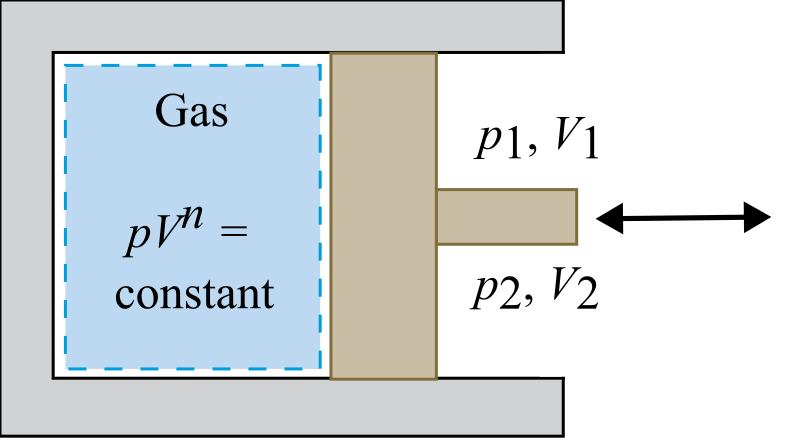
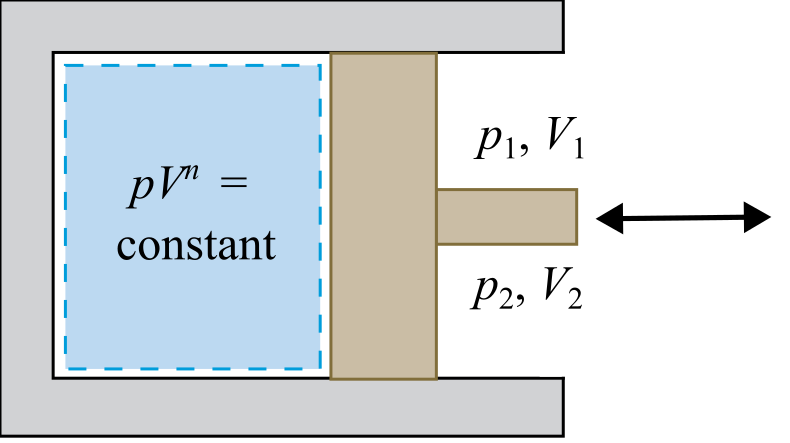
fixes to 2.17-eq

diff --git a/me200/2.17-eq.html b/me200/2.17-eq.html
@@ -39,12 +39,18 @@
     .rowflex{display:flex;align-items:center;gap:10px;flex-wrap:wrap}
     .inline{display:flex;align-items:center;gap:8px}
     .num-sm{width:170px}
-    .controls input.num-sm[type="number"]{width:170px !important}
+    .controls input.num-sm[type="number"]{width:70px }
     .hint{font-size:12px;color:#6b7280;margin-top:4px}
 
     input:disabled{background:#f3f4f6!important;color:#6b7280!important;cursor:not-allowed;opacity:1}
 
-    .kpi{display:grid;gap:10px;margin-top:10px;grid-template-columns:repeat(2,minmax(120px,1fr))}
+    .kpi{
+      display:grid;gap:10px;margin-top:10px;grid-template-columns:repeat(2,minmax(120px,1fr));
+      background:#fcfcff;
+      border:1px solid var(--line);
+      border-radius:12px;
+      padding:10px 12px;
+    }
     .kpi .lab{font-size:12px;color:#6b7280}
     .kpi .val{font-size:16px;font-weight:600;color:#334155}
 
@@ -71,6 +77,7 @@
     .axis text,svg .axis text{font-size:10px;fill:#111}
     .axis-title,svg .axis-title{font-size:12px;fill:#111}
     input[type="number"],select{font:inherit}
+    .controls input[type="range"]{padding:0;border:none;background:transparent;box-shadow:none}
   </style>
   <script data-goatcounter="https://thermofluidlearn.goatcounter.com/count"
           async src="https://gc.zgo.at/count.js"></script>
@@ -80,7 +87,7 @@
   <header class="site-header">
     <div class="container">
       <div class="header-row">
-        <h1 style="margin:0">Polytropic Process Work for Gas in Closed System</h1>
+        <h1 style="margin:0">Polytropic Process Work of a Closed System</h1>
         <a class="btn primary feedback-link" href="../feedback.html" target="_blank" rel="noopener">Send feedback</a>
       </div>
     </div>
@@ -96,7 +103,7 @@
         <!-- <h2 style="margin:4px 0 8px; font-size: 1.25rem;">Polytropic Process Derivation</h2> -->
         
         <div class="eqwrap">
-          <div class="note title-xl" style="margin-bottom:10px"><b>Polytropic process work equation</b></div>
+          <div class="note title-xl" style="margin-bottom:10px"><b>Polytropic process work equation for a closed system</b></div>
           <div class="eqbig" style="margin-bottom:8px">
             \( \text{Polytropic process: } pV^n = \text{constant} \)
           </div>
@@ -122,6 +129,9 @@
 
         <div class="eqwrap" style="margin-top:12px">
           <div class="note title-xl" style="margin-bottom:10px"><b>Derivation steps</b></div>
+          <div class="note" style="margin-bottom:8px">
+            The work associated with the change in the volume of a closed system due to the movement of its boundary can be evaluated by:
+          </div>
           <div class="note">
             <!-- Further derivation steps will go here -->
             \( \displaystyle W = \int_{V_1}^{V_2} p \, dV \)
@@ -160,26 +170,40 @@
     </section>
 
     <section class="ctl" style="margin-top:12px">
-      <h2 style="margin:4px 0 10px; font-size: 1.25rem;">Inputs</h2>
+      <h2 style="margin:4px 0 10px; font-size: 1.25rem;">Inputs & Outputs</h2>
       <div class="controls inputs-grid" style="grid-template-columns: 1fr 1fr;">
         <div class="rowflex" style="flex-direction:column;align-items:flex-start;">
-          <div class="inline" style="width:100%">
-            <label style="width:120px" for="v2-in">Final volume \(V_2\) (m\(^3\))</label>
-            <input type="range" id="v2-in" min="0.05" max="0.2" step="0.001" value="0.15" oninput="$('v2-out').textContent=this.value;compute()" style="flex:1" />
-            <span id="v2-out" class="num-sm" style="width:40px">0.15</span>
-          </div>
-          <div class="inline" style="width:100%">
+          <div class="ctl" style="width:100%">
             <label style="width:120px" for="n-in">Polytropic index \(n\)</label>
-            <div style="position:relative; flex:1; display:flex; align-items:center;">
-              <div id="n-marker" style="position:absolute; left:50%; width:6px; height:6px; border-radius:50%; background:#4b5563; transform:translateX(-50%); pointer-events:none; z-index:2; transition: background 0.2s;"></div>
-              <input type="range" id="n-in" min="0" max="2" step="0.01" value="1.3" oninput="handleNInput(this)" style="width:100%; margin:0; position:relative; z-index:1;" />
+            <div class="inline">
+              <input type="number" id="n-out" class="num-sm" min="0" max="2" step="0.01" value="1.3" onchange="handleNInput(this)" />
+              <div style="position:relative; flex:1; display:flex; align-items:center;">
+                <div id="n-marker" style="position:absolute; left:50%; width:6px; height:6px; border-radius:50%; background:#4b5563; transform:translateX(-50%); pointer-events:none; z-index:2; transition: background 0.2s;"></div>
+                <input type="range" id="n-in" min="0" max="2" step="0.01" value="1.3" oninput="handleNInput(this)" style="width:100%; margin:0; position:relative; z-index:1;" />
+              </div>
             </div>
-            <span id="n-out" class="num-sm" style="width:40px">1.3</span>
           </div>
+          <div class="ctl" style="width: 100%">
+            <div class="inline" style="justify-content: space-between;">
+              <label>Initial pressure \(p_1\) (kPa)</label>
+              <input type="number" disabled class="num-sm" value="100" />
+            </div>
+          </div>
+          <div class="ctl" style="width: 100%">
+            <div class="inline" style="justify-content: space-between;">
+              <label>Initial volume \(V_1\) (m\(^3\))</label>
+              <input type="number" disabled class="num-sm" value="0.1" />
+            </div>
+          </div>
+          <div class="ctl" style="width:100%">
+            <label style="width:120px" for="v2-in">Final volume \(V_2\) (m\(^3\))</label>
+            <div class="inline" style="width:100%">
+              <input type="number" id="v2-out" class="num-sm" min="0.05" max="0.2" step="0.001" value="0.15" onchange="handleV2Input(this)" /> 
+              <input type="range" id="v2-in" min="0.05" max="0.2" step="0.001" value="0.15" oninput="handleV2Input(this)" style="flex:1" />
+            </div>
         </div>
 
         <div>
-          <label>Current values (for \(p_1=100\) kPa, \(V_1=0.1\) m\(^3\))</label>
           <div class="kpi">
             <div><div class="lab">Final pressure \(p_2\)</div><div class="val"><span id="p2-kpi">...</span> kPa</div></div>
             <div><div class="lab">Work \(W\)</div><div class="val"><span id="w-kpi">...</span> kJ</div></div>
@@ -212,11 +236,20 @@
 
     function handleNInput(el) {
       let val = parseFloat(el.value);
-      if (Math.abs(val - 1.0) <= N_SNAP_RANGE) {
+      if (val < 0) val = 0;
+      if (val > 2) val = 2;
+
+      if (el.id === 'n-in' && Math.abs(val - 1.0) <= N_SNAP_RANGE) {
         val = 1.0;
         el.value = 1.0;
       }
-      $('n-out').textContent = Number.isInteger(val) ? val.toFixed(1) : val;
+      
+      if (el.id === 'n-in') {
+        $('n-out').value = Number.isInteger(val) ? val.toFixed(1) : val;
+      } else {
+        el.value = val;
+        $('n-in').value = val;
+      }
       
       const isIsothermal = (val === 1.0);
       $('n-marker').style.background = isIsothermal ? '#3b82f6' : '#4b5563';
@@ -227,6 +260,21 @@
         note.style.fontWeight = isIsothermal ? '600' : 'normal';
       }
       
+      compute();
+    }
+
+    function handleV2Input(el) {
+      let val = parseFloat(el.value);
+      if (val < 0.05) val = 0.05;
+      if (val > 0.2) val = 0.2;
+
+      if (el.id === 'v2-out') {
+        el.value = val;
+        $('v2-in').value = val;
+      } else {
+        $('v2-out').value = val;
+        $('v2-in').value = val;
+      }
       compute();
     }
 
@@ -287,10 +335,10 @@
       });
       
       const xScale1 = d3.scaleLinear().domain(v_domain).range([margin.left, margin.left + plotW]);
-      const yScale1 = d3.scaleLinear().domain([0, p_max * 1.05]).range([margin.top + plotH, margin.top]);
+      const yScale1 = d3.scaleLinear().domain([0, p_max]).range([margin.top + plotH, margin.top]);
       
       const xScale2 = d3.scaleLinear().domain(v_domain).range([margin.left + plotW + gap, width - margin.right]);
-      const yScale2 = d3.scaleLinear().domain([Math.min(0, w_min*1.05), Math.max(0, w_max*1.05)]).range([margin.top + plotH, margin.top]);
+      const yScale2 = d3.scaleLinear().domain([Math.min(0, w_min), Math.max(0, w_max)]).range([margin.top + plotH, margin.top]);
       
       // Axes
       svg.append("g").attr("class", "axis").attr("transform", `translate(0,${margin.top + plotH})`).call(d3.axisBottom(xScale1).ticks(5));
@@ -397,7 +445,7 @@
           dragpt2.attr("cx", xScale2(v_new)).attr("cy", yScale2(w_new));
 
           $('v2-in').value = v_new.toFixed(3);
-          $('v2-out').textContent = v_new.toFixed(3);
+          $('v2-out').value = v_new.toFixed(3);
           
           $('p2-kpi').textContent = p_new.toFixed(1);
           $('w-kpi').textContent = w_new.toFixed(2);
@@ -411,7 +459,7 @@
     function init(){
       $('v2-in').value = 0.15;
       $('n-in').value = 1.3;
-      $('v2-out').textContent = 0.15;
+      $('v2-out').value = 0.15;
       handleNInput($('n-in')); // this also calls compute()
       window.addEventListener('resize', compute);
     }
@@ -429,6 +477,9 @@
         try { localStorage.setItem('fb_ctx', JSON.stringify(FEEDBACK)); } catch {}
       });
     });
+  </script>
+</body>
+</html>   });
   </script>
 </body>
 </html>

diff --git a/index.html b/index.html
@@ -435,7 +435,7 @@
               <div class="cards">
                 <a class="sim-card" href="./me200/2.17-eq.html">
                   <div class="thumb"><img src="assets/me200/2.17-eq.png" alt=""></div>
-                  <h3>Polytropic Process Work for Gas in Closed System</h3>
+                  <h3>Polytropic Process Work of a Closed System</h3>
                 </a>
               </div>
             </div>